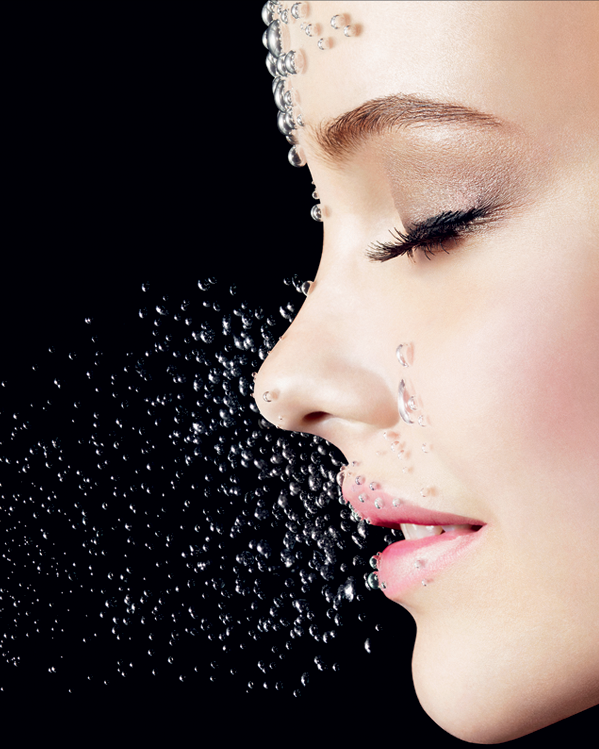
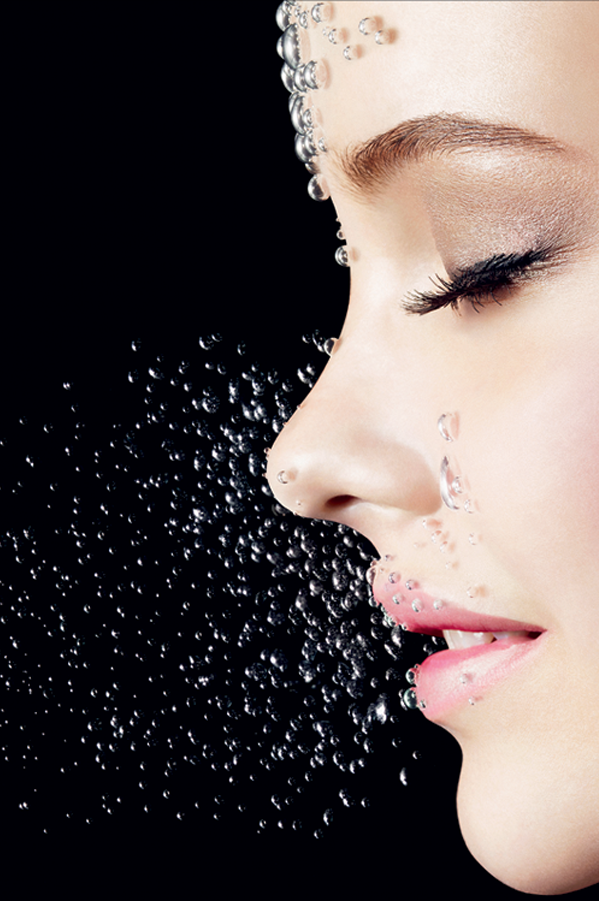
fixed size of contents

diff --git a/cosmeticshop/www/js/index.js b/cosmeticshop/www/js/index.js
@@ -38,6 +38,10 @@ var app = {
 		app.receivedEvent('deviceready');
 	},
 
+	headerHeight : 0,
+	footerHeight : 0,
+	contentHeight : 0,
+
 	shopList : [],
 	shopListTemplate : "",
 	nearestShop : null,
@@ -123,34 +127,63 @@ var app = {
 		$.mobile.buttonMarkup.hoverDelay = 0;
 		$.mobile.phonegapNavigationEnabled = true;
 
-		/* enlarge content size*/
-		resizeMyContent();
+		/* header height (size: 565x107) */
+		app.headerHeight = $(window).width() * 107 / 565;
 
-		/* set home page menu size */
-		var contentHeight = getRealContentHeight();
-		var menuWidth = (contentHeight * 106 / 900) * 147 / 106;
+		/* footer height (size: 600x80) */
+		app.footerHeight = $(window).width() * 80 / 600;
+
+		/* content height */
+		app.contentHeight = $(window).height() - app.headerHeight - app.footerHeight;
+
+		/* enlarge contents size */
+		$('div[data-role="content"]').each(function() {
+			$(this).css({
+				"height" : app.contentHeight + "px"
+			});
+		});
+
+		/* set #ani-page content size */
+		$('#ani-page div[data-role="content"]').css({
+			"height" : $(window).height() + "px"
+		});
+
+		/* set #home_page menu size (size: 147x901) */
+		//var contentHeight = getRealContentHeight();
+		//var menuWidth = ($(window).height() * 106 / 901) * 147 / 106;
+		var menuWidth = $(window).height() * 147 / 901;
 		$("#left-menu").css({
 			"width" : menuWidth + "px"
 		});
 
-		/* set home page logo size */
+		/* set #home_page logo size (size: 457x108) (design width: 601px)*/
 		var homeLogoWidth = $(window).width() * 457 / 601;
 		$("#hp-header img").css({
 			"width" : homeLogoWidth + "px"
 		});
 
-		/* set big picture container height */
+		/* set #home_page content size */
 		var homeLogoHeight = homeLogoWidth * 108 / 457;
-		var pictureContainerHeight = contentHeight - homeLogoHeight;
-
-		$("#hp-pic").css({
-			"height" : pictureContainerHeight + "px",
-			"top" : homeLogoHeight + "px"
+		var homeContentHeight = $(window).height() - homeLogoHeight;
+		$('#home_page div[data-role="content"]').css({
+			"height" : homeContentHeight + "px"
 		});
 
+		/* set big picture container height */
+		$("#hp-pic").css({
+			//"top" : homeLogoHeight + "px",
+			"height" : homeContentHeight + "px"
+		});
+
+		/* set swiper container height */
 		$("#swiper4").css({
-			"height" : pictureContainerHeight + "px",
-			"top" : homeLogoHeight + "px"
+			//"top" : homeLogoHeight + "px",
+			"height" : homeContentHeight + "px"
+		});
+
+		/* set #home_page header size */
+		$('#home_page div[data-role="header"]').css({
+			"height" : homeLogoHeight + "px"
 		});
 
 		initMenu('#left-menu img');

diff --git a/cosmeticshop/www/js/app.js b/cosmeticshop/www/js/app.js
@@ -325,12 +325,12 @@ function startupSteps() {
 		initSwiperData(swiper4);
 	});
 	$("#page-yeniurun").bind("pageshow", function(event) {
-		enlargeContent("page-yeniurun");
+		//enlargeContent("page-yeniurun");
 		initSwiperData(swiper2);
 	});
 	$("#page-firsat").bind("pageshow", function(event) {
 		//enlargeContent("page-yeniurun");
-		resizeMyContent();
+		//resizeMyContent();
 		initSwiperData(swiper1);
 	});
 
@@ -352,14 +352,14 @@ function startupSteps() {
 		$.mobile.changePage($("#page-bildirim"), {
 			transition : "none"
 		});
-		resizeMyContent();
+		//resizeMyContent();
 	});
 
 	$("#m4 img").click(function() {
 		$.mobile.changePage($("#page-katalog"), {
 			transition : "none"
 		});
-		resizeMyContent();
+		//resizeMyContent();
 		$('.theiframeid').css({
 			"height" : $(window).width + "px"
 		});
@@ -382,7 +382,7 @@ function startupSteps() {
 		$.mobile.changePage($("#page-sosyal"), {
 			transition : "flip"
 		});
-		resizeMyContent();
+		//resizeMyContent();
 	});
 
 	$("#m6 img").click(function() {
@@ -405,7 +405,7 @@ function startupSteps() {
 		$.mobile.changePage($("#page-form"), {
 			transition : "flip"
 		});
-		resizeMyContent();
+		//resizeMyContent();
 	});
 
 	$("#m8 img").click(function() {
@@ -413,7 +413,7 @@ function startupSteps() {
 		$.mobile.changePage($("#page-harita"), {
 			transition : "none"
 		});
-		enlargeContent("page-harita");
+		//enlargeContent("page-harita");
 
 		var t1 = $('#page-harita div[data-role="content"] .ui-grid-a').offset().top;
 		var t2 = $('#map-current').offset().top;

diff --git a/cosmeticshop/www/index.html b/cosmeticshop/www/index.html
@@ -95,8 +95,8 @@
 
 				<div id="swiper4" class="swiper-container">
 					<div id="swipe-data4" class="swiper-wrapper"></div>
+					<div id="pagination4" class="pagination"></div>
 				</div>
-				<div id="pagination4" class="pagination"></div>
 
 			</div><!-- /content -->
 
@@ -198,9 +198,9 @@
 			<div data-role="content" class="xxpdf-content theiframewrap">
 				<!-- iframe content -->
 				<iframe id="theiframeid" class="theiframeid" src="http://213.74.186.117/Files/cosmetica-insert-eylul.pdf" name="theiframeid" scrolling="yes" frameborder="0"></iframe>
-   
+
 			</div><!-- /content -->
-  
+
 			<div data-role="footer" data-position="fixed" data-tap-toggle="false">
 				<div class="ui-grid-c">
 					<div class="ui-block-a"><img class="fm f1" src="img/footer_40.png" src2="img/footer-pressed_03.png" width="100%"/>

diff --git a/cosmeticshop/www/css/cosmetica.css b/cosmeticshop/www/css/cosmetica.css
@@ -78,13 +78,17 @@ div[data-role="footer"] {
 	background-image: none;
 	background-color: #000;
 	border: none;
+	/*
 	position: absolute;
 	right: 0;
 	top: 0;
 	z-index: 99;
+	*/
+	text-align: right;
+	overflow: hidden;
 }
 #hp-header img {
-	display: block;
+	/*display: block;*/
 }
 #hp-pic {
 	position: relative;
